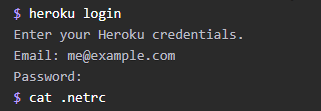
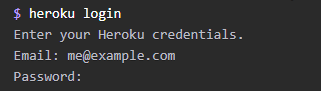
readme

Changed region(s): [[0.0312, 0.2418, 0.7788, 0.7473], [0.0312, 0.0659, 0.3738, 0.2418], [0.0312, 0.7692, 0.3427, 0.9451]]

diff --git a/server.js b/server.js
@@ -1,7 +1,7 @@
 var express = require('express');
 var bodyParser = require('body-parser');
 var nodeMailer = require('nodemailer');
-
+var auth = require('./config.json');
 var app = express();
 
 var PORT = process.env.PORT || 3000;

diff --git a/README.md b/README.md
@@ -1,7 +1,7 @@
 # nodemailer-heroku-sendgrid-tutorial
 Tutorial for setting up nodemailer in heroku with sendrid.
 
-#Getting Started
+# Getting Started
 
  * Install dependencies ``` npm install ```
  * ``` npm start ```
@@ -13,7 +13,11 @@ This tutorial requires [Heroku](https://devcenter.heroku.com/articles/heroku-cli
 
 ### Log into Heroku and create
 
-run the ``` heroku login ``` command and enter your credentials
+Run the ``` heroku login ``` command and enter your credentials
 
 ![heroku-login](./public/images/heroku-login.png)
+
+After loggin in, run the ``` heroku create <app name>``` command
+
+![heroku-create](./public/images/heroku-create.png)
 
